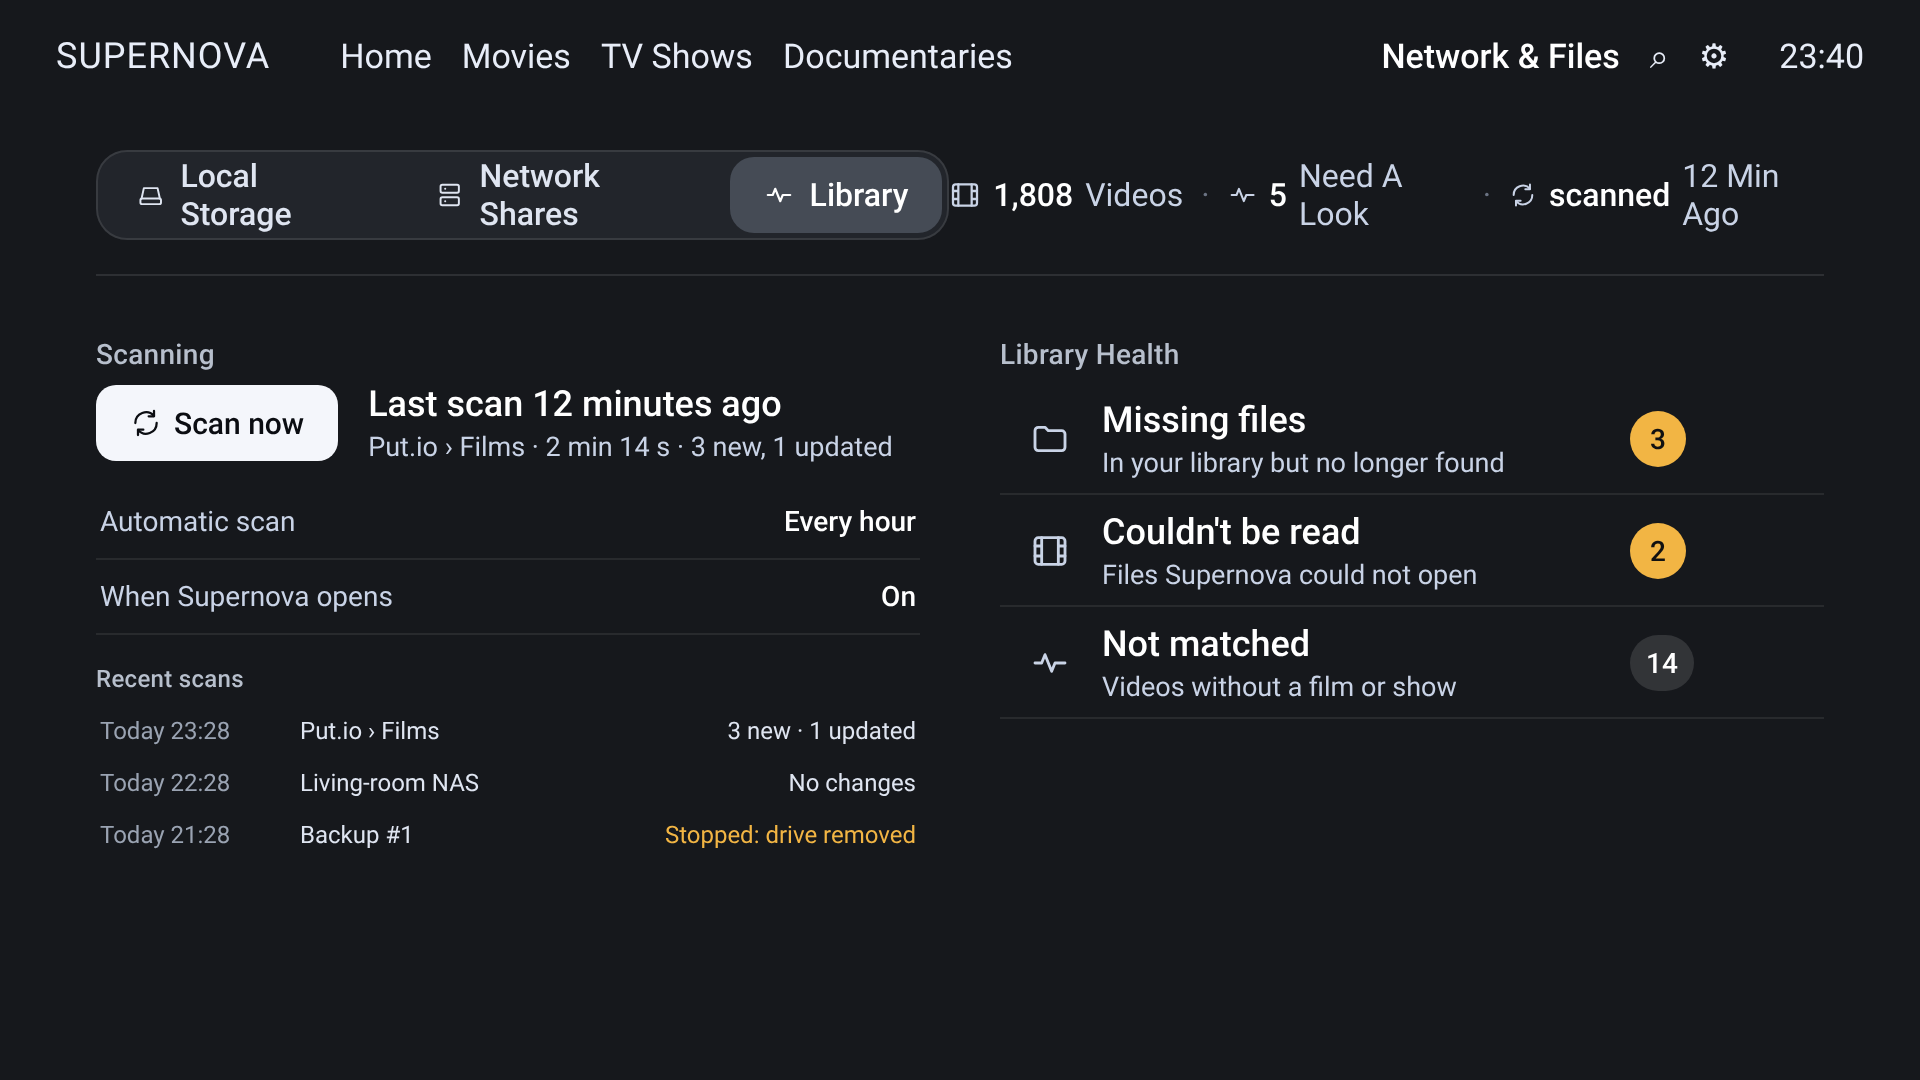
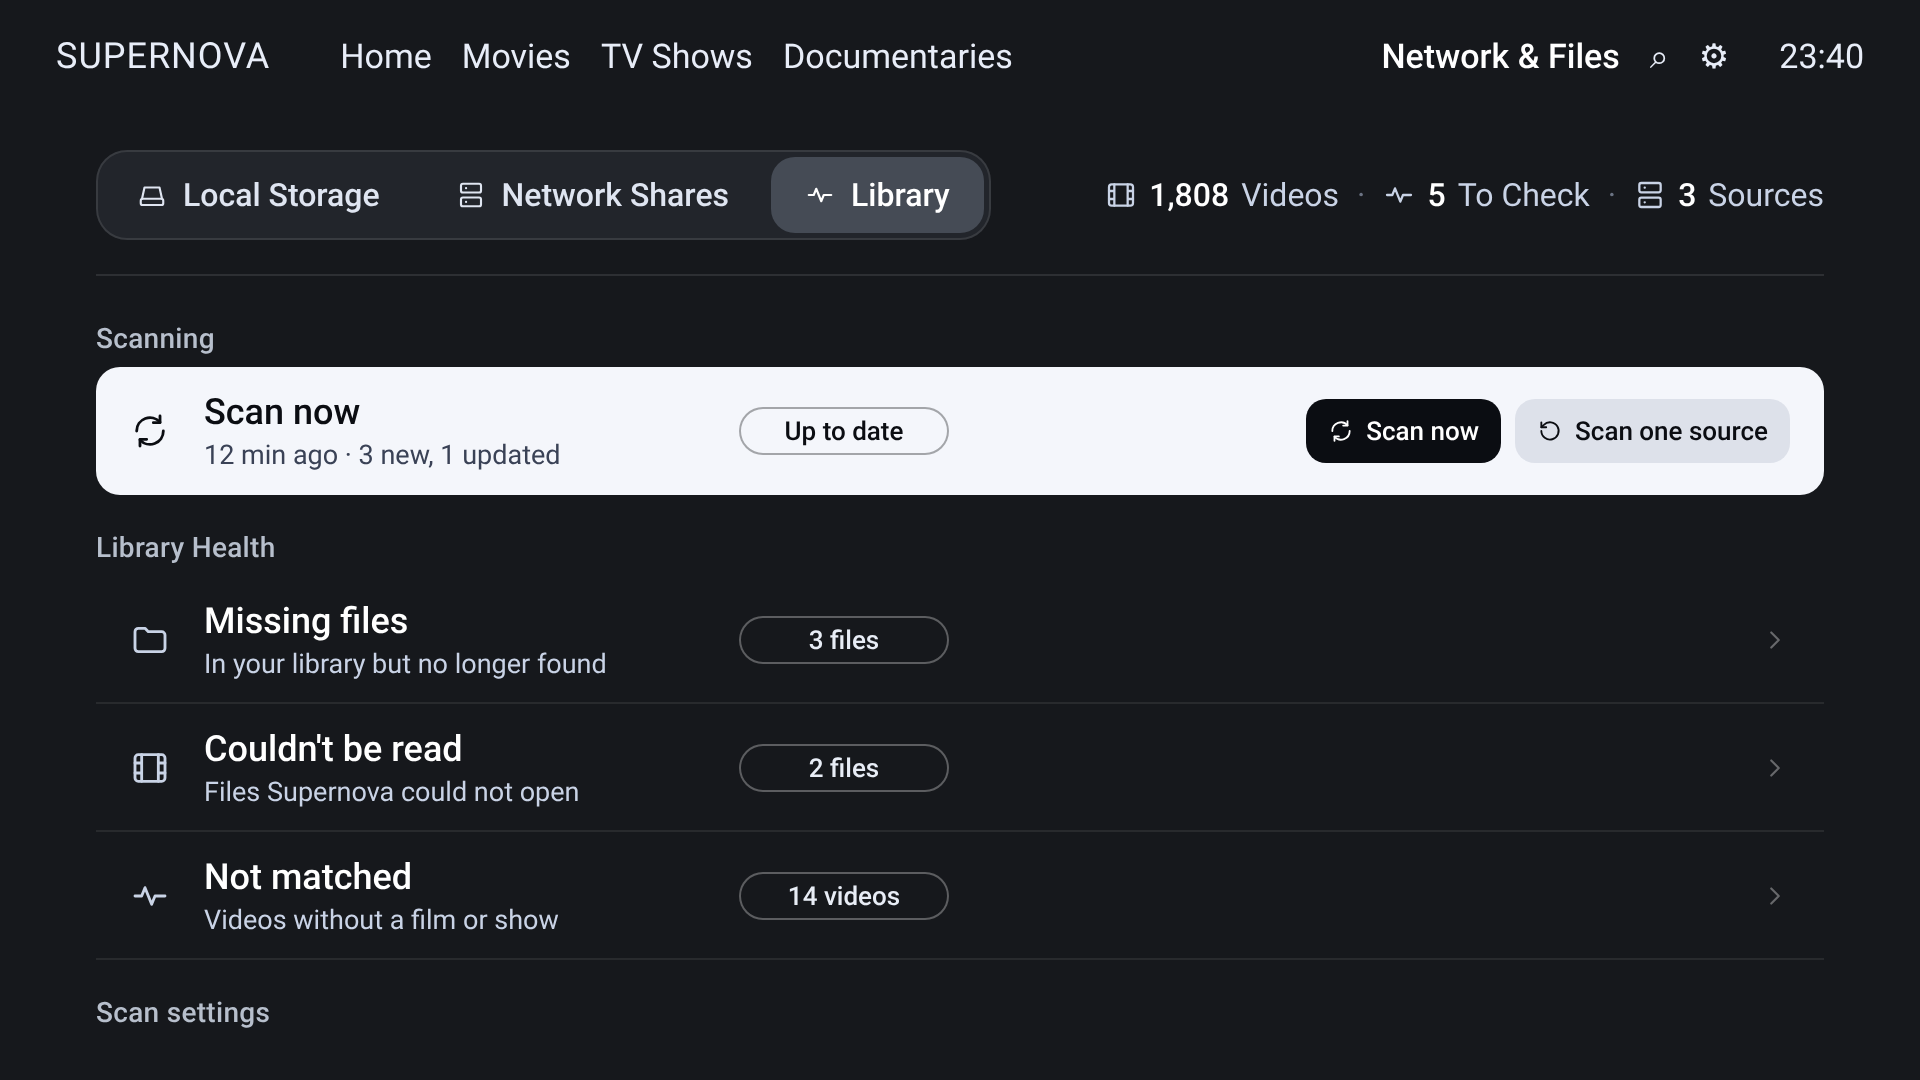
Exploring: Network & Files tabs — top bar confirmed, More menu without heading, Library tab as one list
Claude-Session: https://claude.ai/code/session_01FtDZqamY6pdaUKwc7fqgiA

diff --git a/docs/design/proposals/network-files-tabs/render.js b/docs/design/proposals/network-files-tabs/render.js
@@ -39,6 +39,8 @@ const I = {
   lock: '<rect x="5" y="11" width="14" height="10" rx="2"/><path d="M8 11V7a4 4 0 0 1 8 0v4"/>',
   more: '<path d="M5 12h.1M12 12h.1M19 12h.1"/>',
   disk: '<ellipse cx="12" cy="6" rx="8" ry="3"/><path d="M4 6v12c0 1.7 3.6 3 8 3s8-1.3 8-3V6M4 12c0 1.7 3.6 3 8 3s8-1.3 8-3"/>',
+  time: '<circle cx="12" cy="12" r="9"/><path d="M12 7v5l3 2"/>',
+  history: '<path d="M4 12a8 8 0 1 0 2.3-5.7L4 8.5"/><path d="M4 4v4.5h4.5"/>',
   eye: '<path d="M2 12s4-7 10-7 10 7 10 7-4 7-10 7S2 12 2 12z"/><circle cx="12" cy="12" r="3"/>',
 };
 const head = (open, focusTab, summary) => `<div class="tabrow"><div class="tray">${[['local', 'Local Storage'], ['shares', 'Network Shares'], ['library', 'Library']]
@@ -46,7 +48,7 @@ const head = (open, focusTab, summary) => `<div class="tabrow"><div class="tray"
   <div class="summary">${summary.map(([v, l]) => `<span>${icon(I[SUMMARY_ICON[l]] || I.info, 32)}<b>${v}</b> ${title(l)}</span>`).join('<i class="dot">·</i>')}</div></div>`;
 const title = l => l.split(' ').map(w => w === 'TB' ? w : w.charAt(0).toUpperCase() + w.slice(1)).join(' ');
 const SUMMARY_ICON = { devices: 'local', videos: 'film', 'videos here': 'film', free: 'disk', 'in library': 'check',
-  'not added': 'plus', connections: 'shares', reachable: 'test', 'need a look': 'library', '12 min ago': 'scan' };
+  'not added': 'plus', connections: 'shares', reachable: 'test', 'need a look': 'library', '12 min ago': 'scan', 'to check': 'library', sources: 'shares' };
 const bar = (used, total) => `<div class="bar"><i style="width:${Math.round(used / total * 100)}%"></i></div>`;
 // Library / reachability states: one column, same place on every row.
 const S = {
@@ -127,26 +129,32 @@ ${fieldF('Folder', '/Films')}${fieldF('Username', 'heretostream<i class="caret">
 <div class="rl p">Port and Folder are optional. For Put.io use <b>webdav.put.io</b> and your Put.io username.
 Test connection checks it without saving anything.</div></div>
 </div></div>`;
-const menuHtml = '<div class="cmenu"><div class="ch">More connection types</div>' +
+const menuHtml = '<div class="cmenu">' +
   [['pc', 'FTP', true], ['lock', 'FTP with TLS', false], ['globe', 'WebDAV without encryption', false]]
     .map(([ic, n, f]) => `<div class="ci ${f ? 'focus' : ''}">${icon(I[ic], 30)}<span>${n}</span></div>`).join('') + '</div>';
 const more = shares(3).replace('class="row add focus"', 'class="row add open"')
   .replace('</div></div>\n<div class="sec">Found on your network</div>', `</div>${menuHtml}</div>\n<div class="sec">Found on your network</div>`);
 
-const library = `${nav}<div class="page">${head('library', '', [['1,808', 'videos'], ['5', 'need a look'], ['scanned', '12 min ago']])}
-<div class="two"><div class="col"><div class="sec">Scanning</div>
-<div class="scanbox"><span class="b focus big">${icon(I.scan, 32)}Scan now</span>
-<div class="sl"><div class="rn">Last scan 12 minutes ago</div><div class="rl">Put.io › Films · 2 min 14 s · 3 new, 1 updated</div></div></div>
-<div class="kv"><span>Automatic scan</span><b>Every hour</b></div><div class="kv"><span>When Supernova opens</span><b>On</b></div>
-<div class="sec small">Recent scans</div>
-<div class="mini"><span>Today 23:28</span><span>Put.io › Films</span><span>3 new · 1 updated</span></div>
-<div class="mini"><span>Today 22:28</span><span>Living-room NAS</span><span>No changes</span></div>
-<div class="mini"><span>Today 21:28</span><span>Backup #1</span><span class="warnc">Stopped: drive removed</span></div></div>
-<div class="col"><div class="sec">Library Health</div>
-<div class="hrow"><span class="ri">${icon(I.folder, 40)}</span><div class="rt"><div class="rn">Missing files</div><div class="rl">In your library but no longer found</div></div><span class="count amber">3</span></div>
-<div class="hrow"><span class="ri">${icon(I.film, 40)}</span><div class="rt"><div class="rn">Couldn't be read</div><div class="rl">Files Supernova could not open</div></div><span class="count amber">2</span></div>
-<div class="hrow"><span class="ri">${icon(I.library, 40)}</span><div class="rt"><div class="rn">Not matched</div><div class="rl">Videos without a film or show</div></div><span class="count">14</span></div>
-</div></div></div>`;
+const pill = t => `<span class="state">${t}</span>`;
+const lrow = (ic, name, line, st, actions, focus) => row(ic, name, line, '', actions, focus).replace('<div class="rs"></div>', `<div class="rs">${pill(st)}</div>`);
+const libRows = focus => `
+<div class="sec first">Scanning</div>
+${lrow('scan', 'Scan now', '12 min ago · 3 new, 1 updated', 'Up to date', [['scan', 'Scan now'], ['history', 'Scan one source']], focus === 0)}
+<div class="sec">Library Health</div>
+${lrow('folder', 'Missing files', 'In your library but no longer found', '3 files', [['open', 'Review'], ['search', 'Find them again']], focus === 1)}
+${lrow('film', "Couldn't be read", 'Files Supernova could not open', '2 files', [['open', 'Review']], focus === 2)}
+${lrow('library', 'Not matched', 'Videos without a film or show', '14 videos', [['open', 'Review'], ['search', 'Fix matches']], focus === 3)}
+<div class="sec">Scan settings</div>
+${lrow('time', 'Automatic scan', 'Checks every source for new videos', 'Every hour', null, focus === 4)}
+${lrow('local', 'When Supernova opens', 'Only if the last scan is over an hour old', 'On', null, focus === 5)}
+<div class="sec">Recent scans</div>
+${lrow('cloud', 'Put.io › Films', 'Today 23:28 · 3 new, 1 updated', 'Finished', null, focus === 6)}
+${lrow('shares', 'Living-room NAS', 'Today 22:28 · 48 s · no changes', 'Finished', null, focus === 7)}
+${lrow('usb', 'Backup #1', 'Today 21:28 · the drive was removed', 'Stopped', null, focus === 8)}`;
+const library = `${nav}<div class="page">${head('library', '', [['1,808', 'videos'], ['5', 'to check'], ['3', 'sources']])}
+<div class="libclip"><div class="libscroll">${libRows(0)}</div></div></div>`;
+const libraryLower = `${nav}<div class="page">${head('library', '', [['1,808', 'videos'], ['5', 'to check'], ['3', 'sources']])}
+<div class="libclip"><div class="libscroll" style="margin-top:-560px">${libRows(4)}</div></div></div>`;
 
 const css = `${font(400)}${font(500)}*{box-sizing:border-box;margin:0}
 body{width:1920px;height:1080px;overflow:hidden;font-family:R;color:#fff;background:#16181C;position:relative}
@@ -209,13 +217,15 @@ body{width:1920px;height:1080px;overflow:hidden;font-family:R;color:#fff;backgro
 .ch{font-size:24px;color:#B7BFCC;padding:0 14px 10px}
 .ci{display:flex;align-items:center;gap:18px;height:68px;padding:0 18px;border-radius:18px;font-size:29px;font-weight:500}
 .ci.focus{background:#F4F6FB;color:#0B0D12}
+.libclip{position:absolute;left:0;right:0;top:136px;bottom:0;overflow:hidden}
+.summary span,.tab{white-space:nowrap}
 .sw{width:76px;height:40px;border-radius:20px;background:#3a3f48;position:relative}.sw i{position:absolute;top:4px;left:4px;width:32px;height:32px;border-radius:50%;background:#fff}.sw.on{background:#cfd6e2}.sw.on i{left:40px;background:#16181C}`;
 (async () => {
   const browser = await chromium.launch();
   const tab = await browser.newPage({ viewport: { width: 1920, height: 1080 } });
   const pages = [['01-local-storage.png', localPage], ['02-inside-a-folder.png', folder], ['03-folder-grid.png', gridv],
     ['04-network-shares.png', shares(1)], ['05-network-shares-unreachable.png', shares(2)], ['06-network-shares-add.png', shares(3)],
-    ['07-add-connection.png', types], ['08-add-connection-form.png', form], ['09-library.png', library],
+    ['07-add-connection.png', types], ['08-add-connection-form.png', form], ['09-library.png', library], ['09b-library-lower.png', libraryLower],
     ['11-add-connection-more.png', more]];
   for (const [f, body] of pages) {
     await tab.setContent(`<html><head><style>${css}</style></head><body>${body}</body></html>`, { waitUntil: 'load' });

diff --git a/docs/REVISIT_LATER.md b/docs/REVISIT_LATER.md
@@ -104,7 +104,10 @@ Items already built or scheduled are left out (see the bottom of this file).
   are: "Backup #1 › Films", "New WebDAV connection") and are signposts, not buttons — Back goes up one level.
   v7 (owner notes 6 Nov): summary words capitalised with a dot between items; More opens a small menu above the
   More button in the More-menu style (heading, icon rows, white focus), and a choice opens its form page like
-  WebDAV's.
+  WebDAV's. The top bar (tabs and summary) is confirmed by the owner; the More menu has no heading.
+  Library tab (v7, to discuss): one full-width list in the same row style — Scan now (Up to date; Scan now ·
+  Scan one source), Library Health (Missing files, Couldn't be read, Not matched, with counts in the pills and
+  Review buttons), Scan settings (Automatic scan, When Supernova opens), Recent scans (last 10). Mock-ups 09, 09b.
 
 ## Parked (owner, 5 Nov 2026) — no version
 - **Supernova screensaver** (approved design, owner notes 0.155 #27, mock-ups `docs/design/proposals/settings/16`–`17`):
